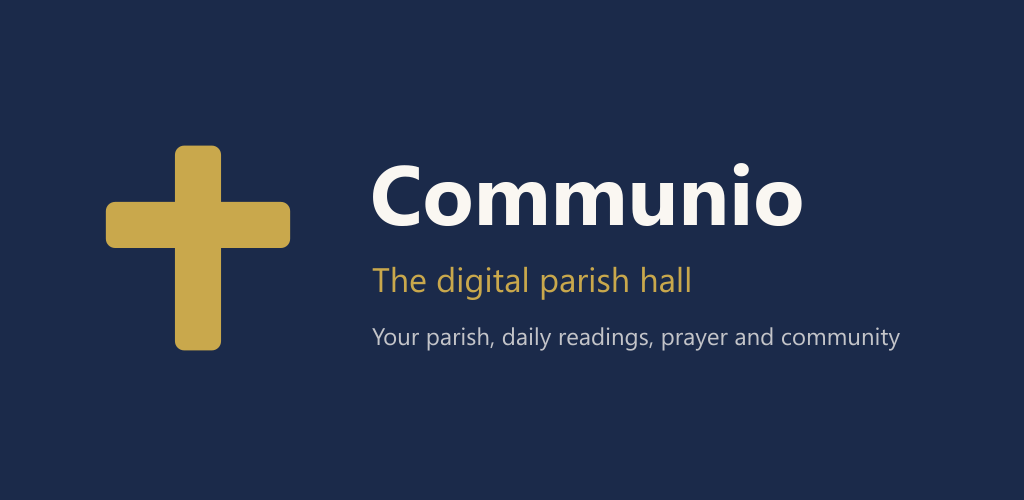
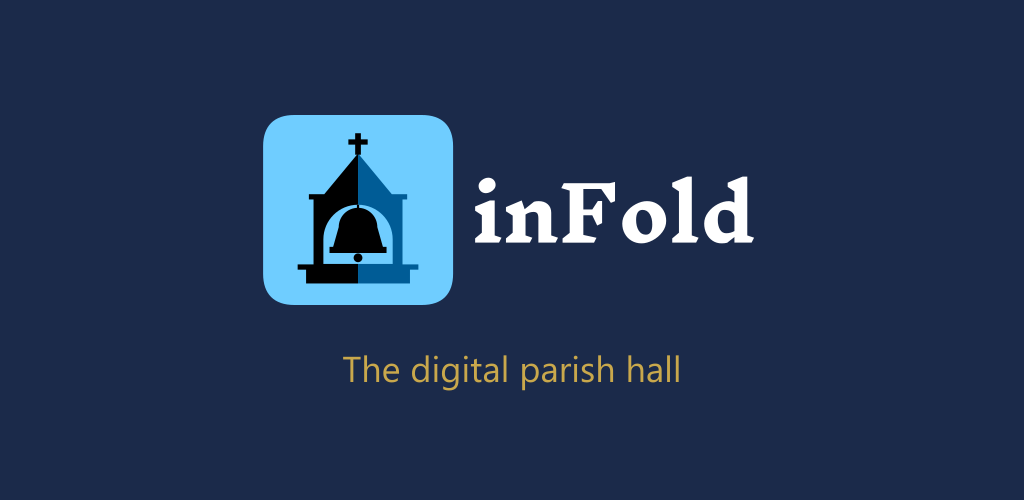
Store assets: demo account, new screenshots and Play graphics
- scripts/seed-review-account.mjs: creates the App Review demo account
  (no password; set via Forgot password) with a home parish, a group it
  runs and three posts. Re-runnable without duplicates.
- store-screenshots.mjs signs in as the demo account with a one-time
  login link when no password is given; adds home feed and group shots
  and hides the welcome card. All 24 screenshots regenerated with the
  current brand (iPhone 6.9", iPad 13", Android).
- Play icon and feature graphic rebuilt from the brand kit.
- Listing and MOBILE.md checklist updated.

Changed region(s): [[0.0938, 0.21, 0.7812, 0.72], [0.3438, 0.66, 0.875, 0.78]]

diff --git a/docs/STORE_LISTING.md b/docs/STORE_LISTING.md
@@ -94,10 +94,11 @@ Welcome to inFold on iPhone and Android! Push notifications for parish announcem
 | App Store — iPad 13" | `ipad-13/` | 2064 × 2752 |
 | Google Play — Phone | `android-phone/` | 1080 × 2400 |
 
-Upload in numeric order: readings, parish directory, saints, rosary,
-examination of conscience, Liturgy of the Hours. Regenerate any time with
+Upload in numeric order: home feed, group, readings, parish directory,
+saints, rosary, examination of conscience, Liturgy of the Hours (regenerated
+2026-11-14 with the current brand). Regenerate any time with
 `node --env-file=.env.local scripts/store-screenshots.mjs` (see the script
-header).
+header; it signs in as the demo account without needing its password).
 
 Google Play graphics: `store-assets/play-icon-512.png` (app icon) and
 `store-assets/play-feature-graphic-1024x500.png` (feature graphic).
@@ -107,10 +108,10 @@ Google Play graphics: `store-assets/play-icon-512.png` (app icon) and
 ## App Review information (Apple) / App access (Google)
 
 - **Sign-in required:** yes
-- **Demo account:** `appreview@getinfold.app` — password in `KEEP-SAFE.txt`
+- **Demo account:** `appreview@getinfold.app`. Created by `scripts/seed-review-account.mjs` with no password: set one with "Forgot password" on the login screen (mail reaches the getinfold.app catch-all), then enter it in App Store Connect / Play Console.
 - **Notes for the reviewer** (paste):
 ```
-inFold is a free Catholic community app. Sign in with the demo account above; it follows a parish in Worcester, MA so you can see the parish page, readings, directory and groups.
+inFold is a free Catholic community app. Sign in with the demo account above. It belongs to St. Paul the Apostle parish (Warren, MA), runs the "Daily Rosary Circle" group and has a few posts, including a prayer request, so you can see the feed, parish page, groups, readings and directory.
 
 User-generated content (guideline 1.2): everything members write can be reported — posts ("…" menu > Report post), comments, group chat messages and prayer requests (flag icon), direct messages (conversation menu > Report conversation), and profiles and groups (flag on their page). Reports go to our moderation queue, admins are notified immediately, and we act within 24 hours (remove content, suspend users). Members can block anyone from their profile, a post's menu, or a conversation; blocked users' content is hidden and they cannot message the blocker (Settings > Blocked users to unblock). Users must agree to the Terms (zero tolerance for objectionable content and abusive users) to sign up. Content Policy: https://app.getinfold.app/policy
 

diff --git a/docs/MOBILE.md b/docs/MOBILE.md
@@ -353,8 +353,8 @@ uploading to TestFlight with automatic signing.
 3. App Store Connect → new app, bundle ID `app.getinfold`, SKU `infold`. Create an App Store Connect API key (App Manager) →
    secrets `APPSTORE_API_KEY_ID`, `APPSTORE_API_ISSUER_ID`, `APPSTORE_API_KEY_P8_BASE64`.
 4. APNs key (.p8) → Firebase → Cloud Messaging → Apple app.
-5. Recreate the demo account `appreview@getinfold.app` (deleted 2026-11-06) and give it content: follows a parish, in a group, a few posts.
-6. Regenerate screenshots with `scripts/store-screenshots.mjs` (the current set predates the brand kit).
+5. ✅ Demo account `appreview@getinfold.app` recreated with content (`scripts/seed-review-account.mjs`, re-runnable). **Set its password** with "Forgot password" and add it to App Store Connect.
+6. ✅ Screenshots regenerated 2026-11-14 (iPhone 6.9", iPad 13", Android), 8 per device.
 7. Actions → Mobile apps → Run workflow → release. Install from TestFlight on a real iPhone and run the §4 manual test plan.
 8. Fill in App Privacy, age rating (13+) and review notes from `docs/STORE_LISTING.md`, then submit.
 
